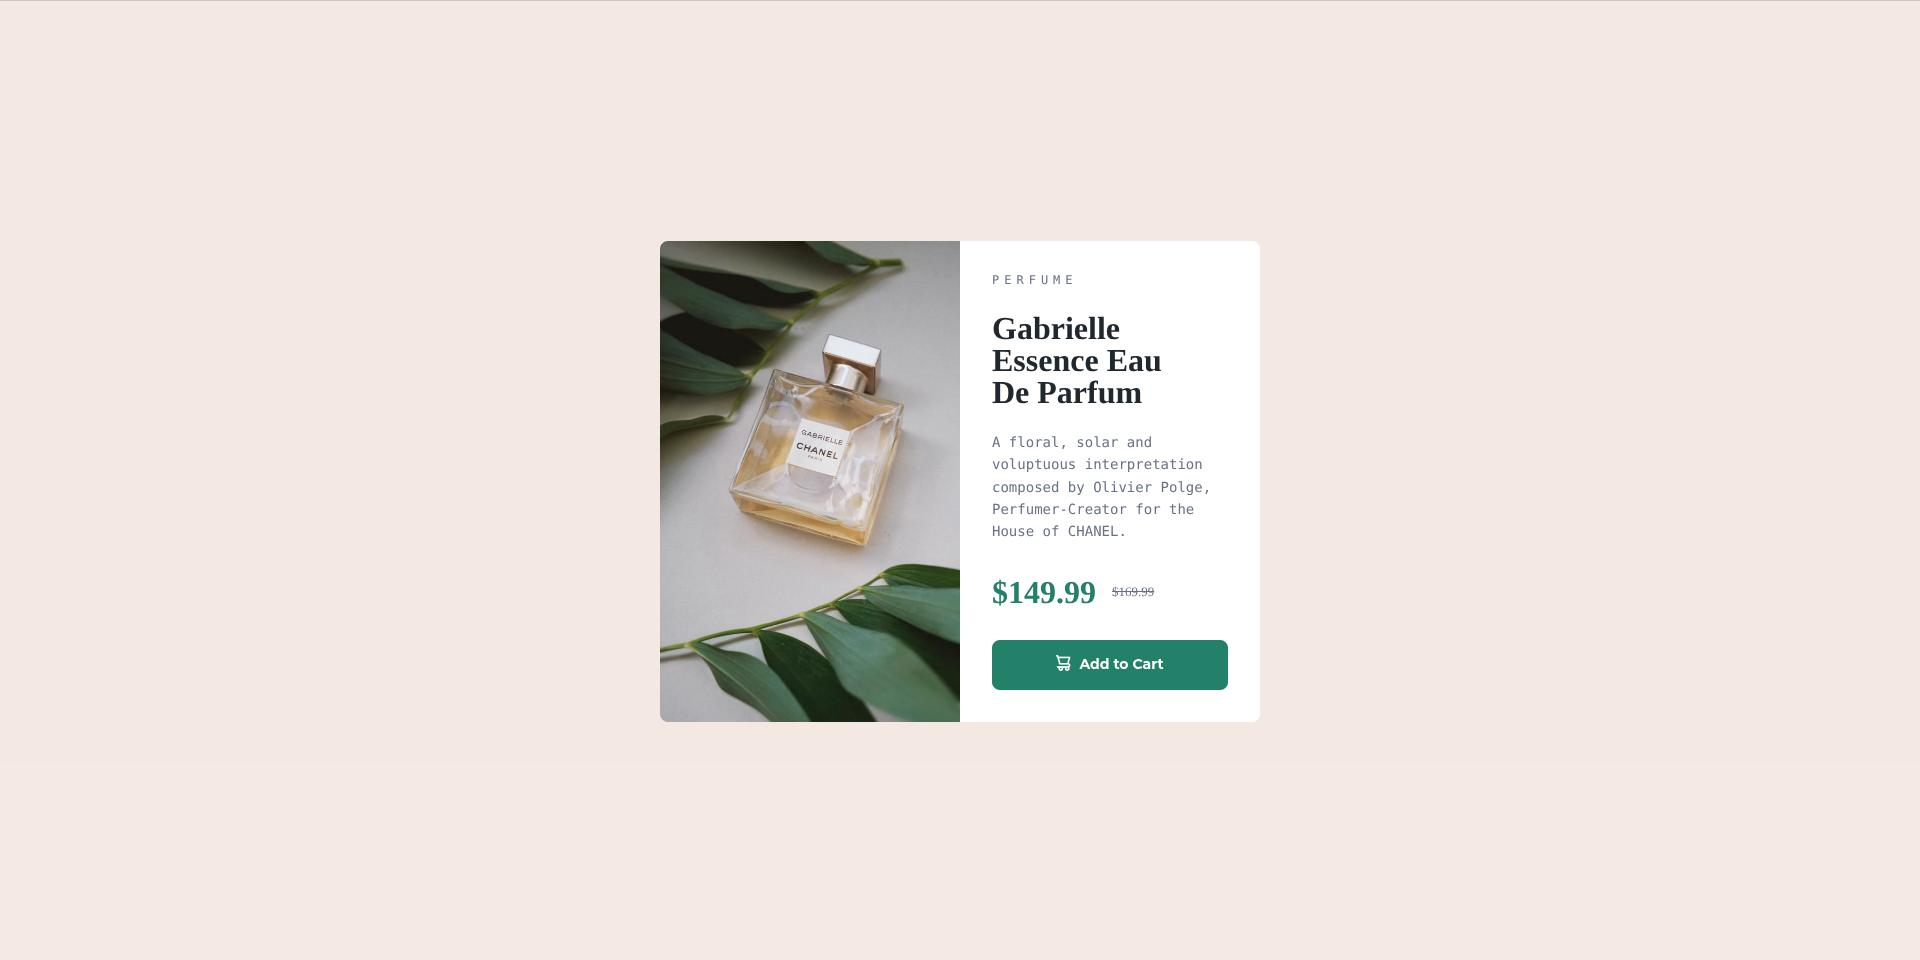
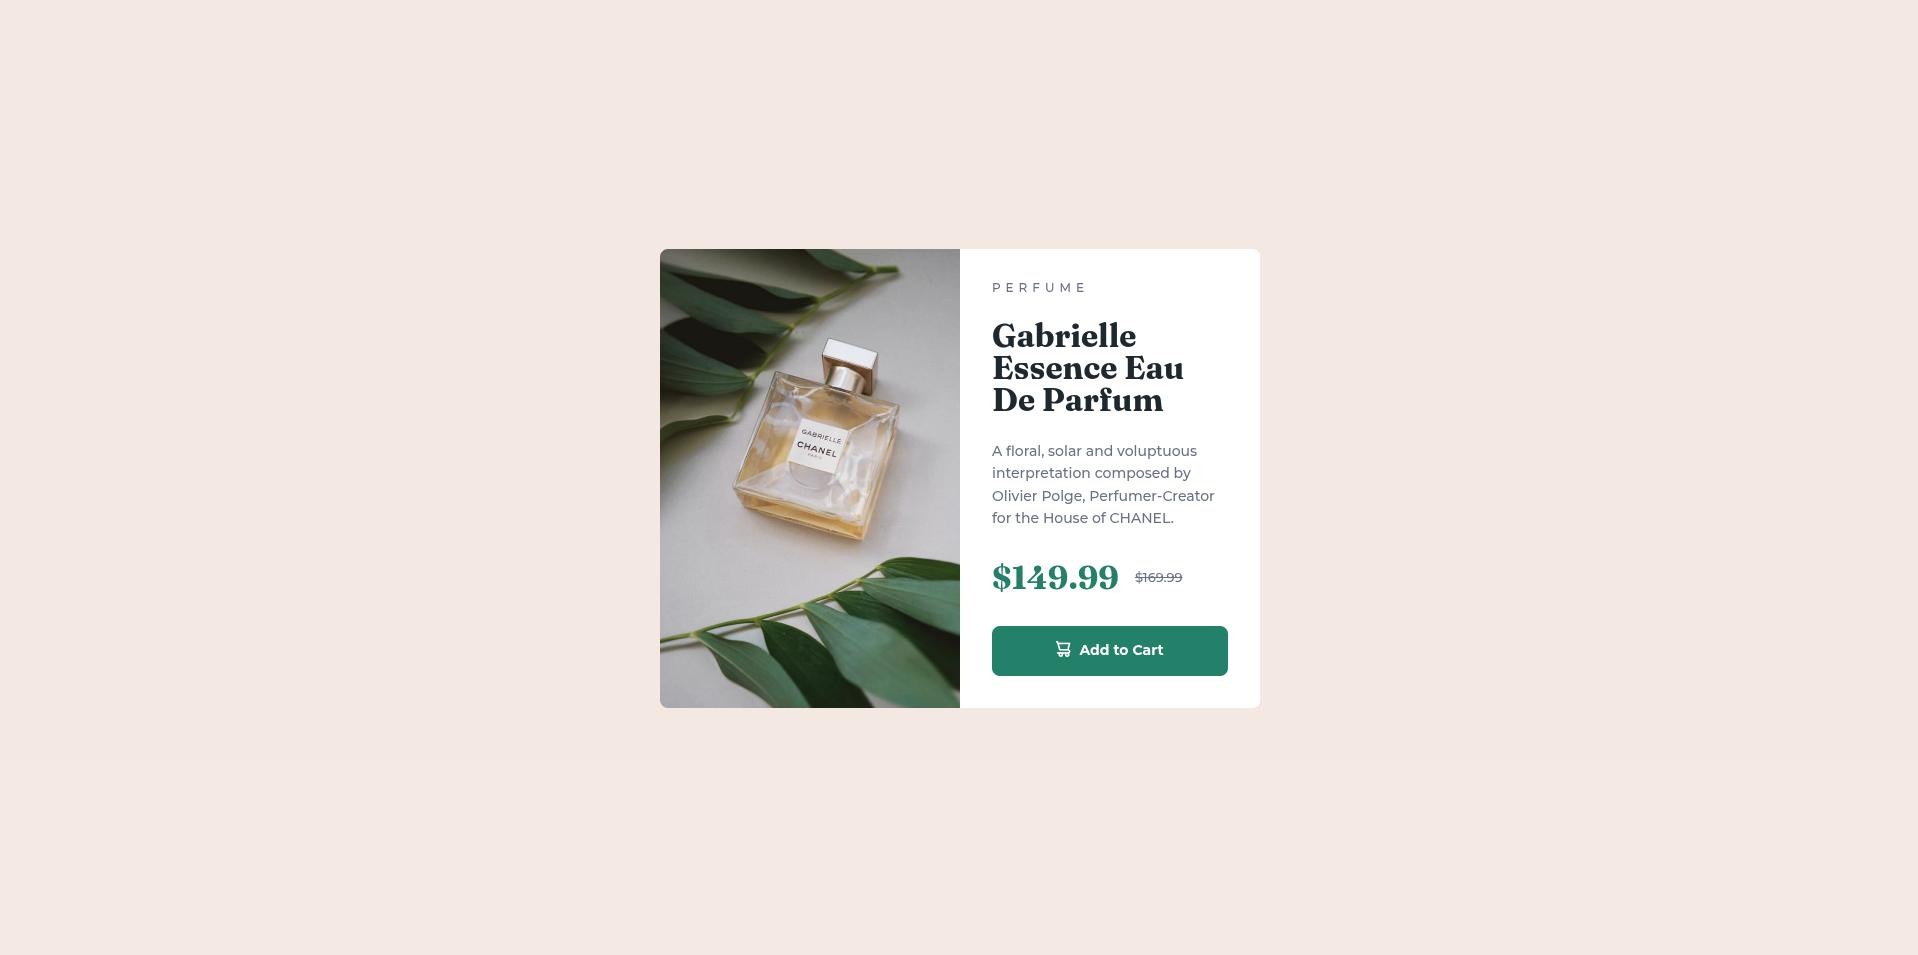
Code review fixes

Changed region(s): [[0.3384, 0.2429, 0.646, 0.7592]]

diff --git a/css/style.css b/css/style.css
@@ -50,7 +50,7 @@ figure, blockquote, dl, dd {
 /* *** */
 
 body {
-    font-family: 'Montaserrat', monospace;
+    font-family: 'Montserrat', monospace;
     background-color: var(--color-cream);
 }
 
@@ -99,7 +99,7 @@ main {
 }
 
 .product-description__name {
-    font-family: Fraunces monospace;
+    font-family: 'Fraunces', monospace;
     font-size: var(--text-preset-1-size);
     font-weight: var(--text-preset-1-weight);
     line-height: var(--text-preset-1-line-height);
@@ -115,7 +115,7 @@ main {
 
 .product-shopping__price {
     margin: var(--spacing-300) 0;
-    font-family: Fraunces monospace;
+    font-family: 'Fraunces', monospace;
     font-size: var(--text-preset-1-size);
     font-weight: var(--text-preset-1-weight);
     line-height: var(--text-preset-1-line-height);
@@ -126,7 +126,7 @@ main {
 }
 
 .product-shopping__price--old {
-    font-family: Montaserrat monospace;
+    font-family: 'Montserrat', monospace;
     font-size: var(--text-preset-5-size);
     font-weight: var(--text-preset-5-weight);
     line-height: var(--text-preset-5-line-height);
@@ -134,7 +134,7 @@ main {
     color: var(--color-grey);
 }
 
-.product-shopping__add-to-card-but {
+.product-shopping__add-to-cart-but {
     display: flex;
     justify-content: center;
     align-items: center;
@@ -153,15 +153,15 @@ main {
     color: var(--color-white);
 }
 
-.product-shopping__add-to-card-but:hover {
+.product-shopping__add-to-cart-but:hover {
     background-color: var(--color-green-700);
 }
 
-.product-shopping__add-to-card-but:active {
+.product-shopping__add-to-cart-but:active {
     background-color: var(--color-green-500);
 }
 
-@media (min-width: 550px) { /*640px dobra wartosc*/
+@media (min-width: 34.375rem) {
     .product {
         display: grid;
         grid-template-columns: 1fr 1fr;

diff --git a/index.html b/index.html
@@ -34,7 +34,7 @@
                     <div class="product-shopping__price">
                         <span>$149.99</span><span class="product-shopping__price--old">$169.99</span>
                     </div>
-                    <button class="product-shopping__add-to-card-but">
+                    <button class="product-shopping__add-to-cart-but">
                         <span class="icon">
                             <svg width="15" height="16" xmlns="http://www.w3.org/2000/svg"><path
                                     d="M14.383 10.388a2.397 2.397 0 0 0-1.518-2.222l1.494-5.593a.8.8 0 0 0-.144-.695.8.8 0 0 0-.631-.28H2.637L2.373.591A.8.8 0 0 0 1.598 0H0v1.598h.983l1.982 7.4a.8.8 0 0 0 .799.59h8.222a.8.8 0 0 1 0 1.599H1.598a.8.8 0 1 0 0 1.598h.943a2.397 2.397 0 1 0 4.507 0h1.885a2.397 2.397 0 1 0 4.331-.376 2.397 2.397 0 0 0 1.12-2.021ZM11.26 7.99H4.395L3.068 3.196h9.477L11.26 7.991Zm-6.465 6.392a.8.8 0 1 1 0-1.598.8.8 0 0 1 0 1.598Zm6.393 0a.8.8 0 1 1 0-1.598.8.8 0 0 1 0 1.598Z"
